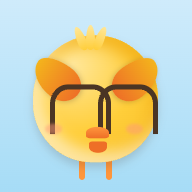
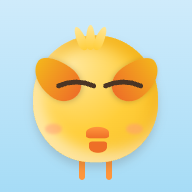
fix: Peep's joy eyes were spectacles, not eyes
The celebrate pose drew each joy eye as a box with all four borders and
borderBottom:none. That leaves the left and right borders standing as
vertical legs, so each eye read as a lens rim and the pair read as
spectacles — baked into all three app icons, since make-icons.html
renders the celebrate pose.

A joy eye is the one feature on Peep that is a stroke rather than a filled
shape, and CSS borders cannot draw one. Dropping the side borders to zero
width was tried and is worse: the curve tapers to sharp points sloping
toward the beak, which is how an angry brow is drawn. It is an SVG path
now — even stroke, round caps — which also ports to SwiftUI's
Path.addQuadCurve + StrokeStyle(lineCap: .round).

Two measured geometry fixes came with it: at the shared 0.30 eye width the
two arcs overlapped by 0.02S and merged into one unbroken unibrow (filled
eyes may touch, and do, by design; strokes may not), and the arcs sat
0.108S below the open eye's centre, dragging them toward the beak into a
scowl.

Icons regenerated through tools/make-icons.html, driven headlessly. The
nested-SVG-inside-foreignObject rasterisation was verified to actually
render the arcs rather than silently drop them.

Claude-Session: https://claude.ai/code/session_013BUherAGMbxH94aPxsFjGr

Changed region(s): [[0.25, 0.4062, 0.8438, 0.7188]]

diff --git a/src/render/art/peep.js b/src/render/art/peep.js
@@ -1,5 +1,5 @@
 // @ts-check
-import { el, px } from '../el.js';
+import { el, px, svg } from '../el.js';
 
 /** @typedef {'idle'|'run'|'launch'|'fly'|'celebrate'|'sad'|'frightened'} PeepPose */
 /** @typedef {'none'|'cowboy'|'goggles'|'cape'} PeepOutfit */
@@ -29,7 +29,11 @@ const POSES = {
 const EYES = {
   happy: { w: 0.29, h: 0.31, pupilX: 0.5, pupilY: 0.42, pupilR: 0.36, brow: null,    blink: true,  arc: false, vein: false },
   focus: { w: 0.27, h: 0.24, pupilX: 0.6, pupilY: 0.5,  pupilR: 0.34, brow: 'angry', blink: false, arc: false, vein: false },
-  joy:   { w: 0.30, h: 0.10, pupilX: 0.5, pupilY: 0.5,  pupilR: 0.38, brow: null,    blink: false, arc: true,  vein: false },
+  // Narrower than the open eyes on purpose. At the shared 0.29-0.30 width the two
+  // arcs overlap at the centre (EYE_CENTERS are 0.28 apart) and merge into a single
+  // unbroken line — a unibrow. Filled eyes may touch, and do: that is the intended
+  // bug-eyed look. Strokes may not.
+  joy:   { w: 0.25, h: 0.10, pupilX: 0.5, pupilY: 0.5,  pupilR: 0.38, brow: null,    blink: false, arc: true,  vein: false },
   sad:   { w: 0.27, h: 0.22, pupilX: 0.4, pupilY: 0.66, pupilR: 0.4,  brow: 'sad',   blink: false, arc: false, vein: false },
   shock: { w: 0.34, h: 0.36, pupilX: 0.5, pupilY: 0.5,  pupilR: 0.18, brow: 'up',    blink: false, arc: false, vein: true },
 };
@@ -139,17 +143,42 @@ function buildFace(S, pose, eyeName, animate) {
     const ex = S * EYE_CENTERS[i] - w / 2;
 
     if (cfg.arc) {
+      // A joy eye is ONE curved stroke (^ ^) — an eye squeezed shut by grinning.
+      // It is the only feature on Peep that is a STROKE rather than a filled shape,
+      // and CSS borders cannot draw one: a bordered box shows its left and right
+      // sides as vertical legs (which reads as a spectacle rim), and dropping them
+      // to zero width makes the curve taper to sharp points that slope down toward
+      // the beak — an angry brow. Both were tried; both were wrong. A path with an
+      // even stroke and round caps is the actual shape, and it ports straight to
+      // SwiftUI's Path.addQuadCurve + StrokeStyle(lineCap: .round).
+      // The viewBox does the scaling, so this stays correct at every icon size.
       parts.push(
-        el('div', {
-          position: 'absolute',
-          left: px(ex),
-          top: px(eyeY + S * 0.16),
-          width: px(w),
-          height: px(w * 0.85),
-          border: `${px(S * 0.032)} solid ${C.ink}`,
-          borderBottom: 'none',
-          borderRadius: `${px(S * 0.11)} ${px(S * 0.11)} 0 0`,
-        }),
+        el(
+          'div',
+          {
+            position: 'absolute',
+            left: px(ex),
+            // Centred on where the OPEN eye sits (its span is eyeY .. eyeY+0.31S), so
+            // the grin closes the eye in place. Sitting it lower drags the arcs down
+            // toward the beak, which reads as a scowl rather than a squeeze.
+            top: px(eyeY + S * 0.09),
+            width: px(w),
+            height: px(w * 0.42),
+          },
+          svg(
+            'svg',
+            { width: '100%', height: '100%', viewBox: '0 0 100 42', fill: 'none' },
+            // A gentle arc. Pulling the control point higher sharpens the peak into
+            // a "∧", which is how an angry brow is drawn — the difference between
+            // delighted and furious here is about fifteen units of control point.
+            svg('path', {
+              d: 'M8 30 Q50 12 92 30',
+              stroke: C.ink,
+              'stroke-width': 11,
+              'stroke-linecap': 'round',
+            }),
+          ),
+        ),
       );
       continue;
     }

diff --git a/sw.js b/sw.js
@@ -2,7 +2,7 @@
 /* Service worker. Cache-first: the game is fully static, so once installed it
    works offline permanently. Bump CACHE on every deploy to invalidate. */
 
-const CACHE = 'chickup-v5';
+const CACHE = 'chickup-v6';
 
 /** Everything needed to run with no network at all. */
 const PRECACHE = [